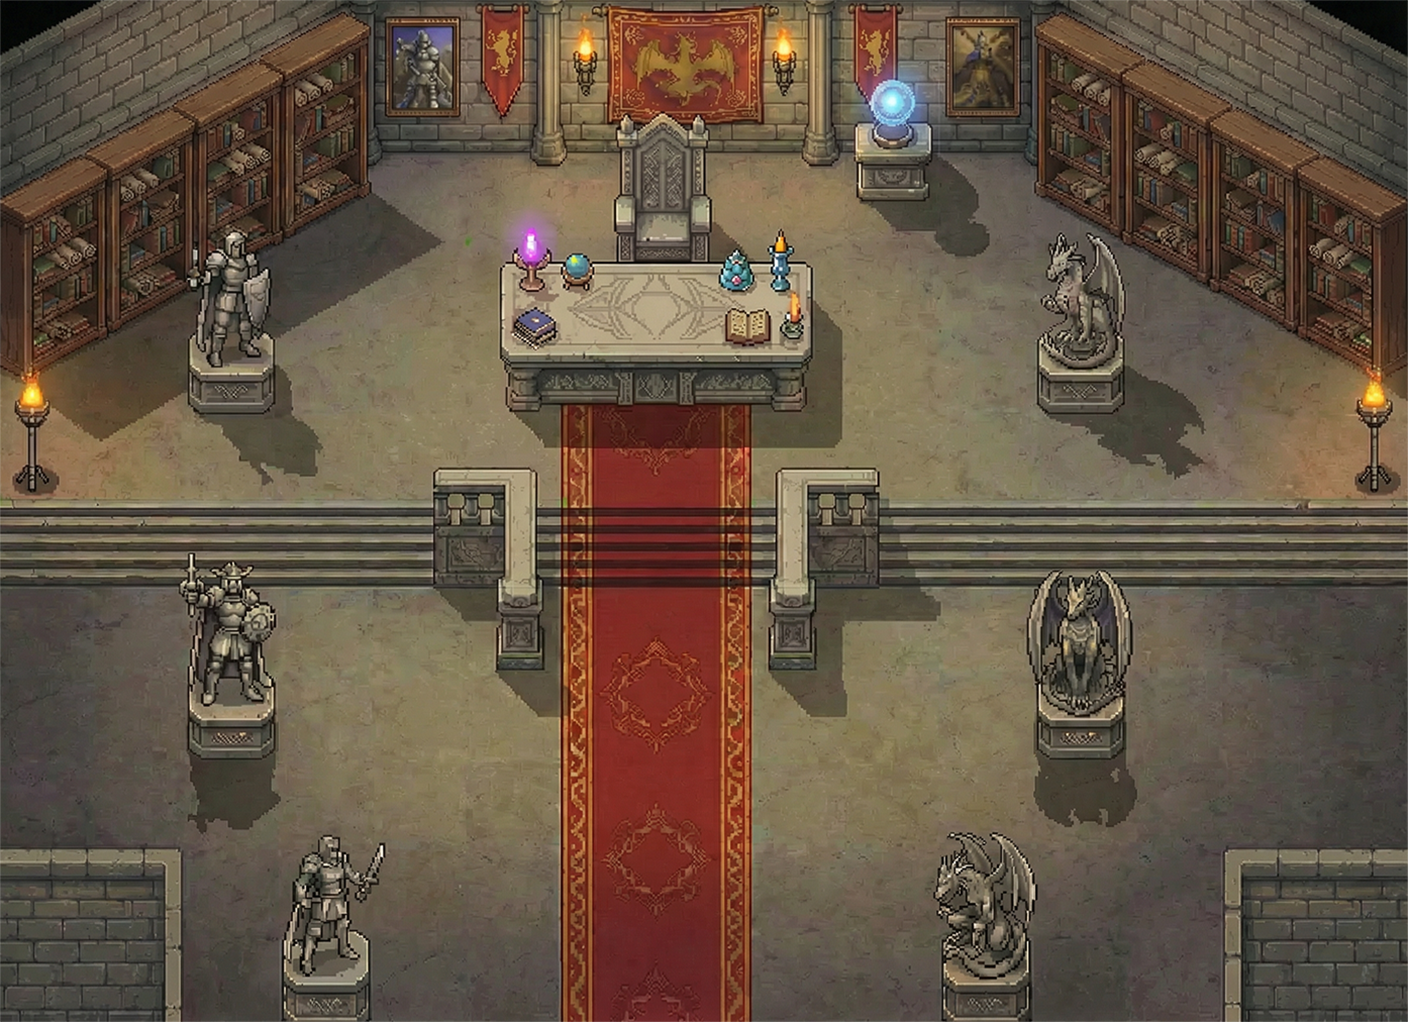
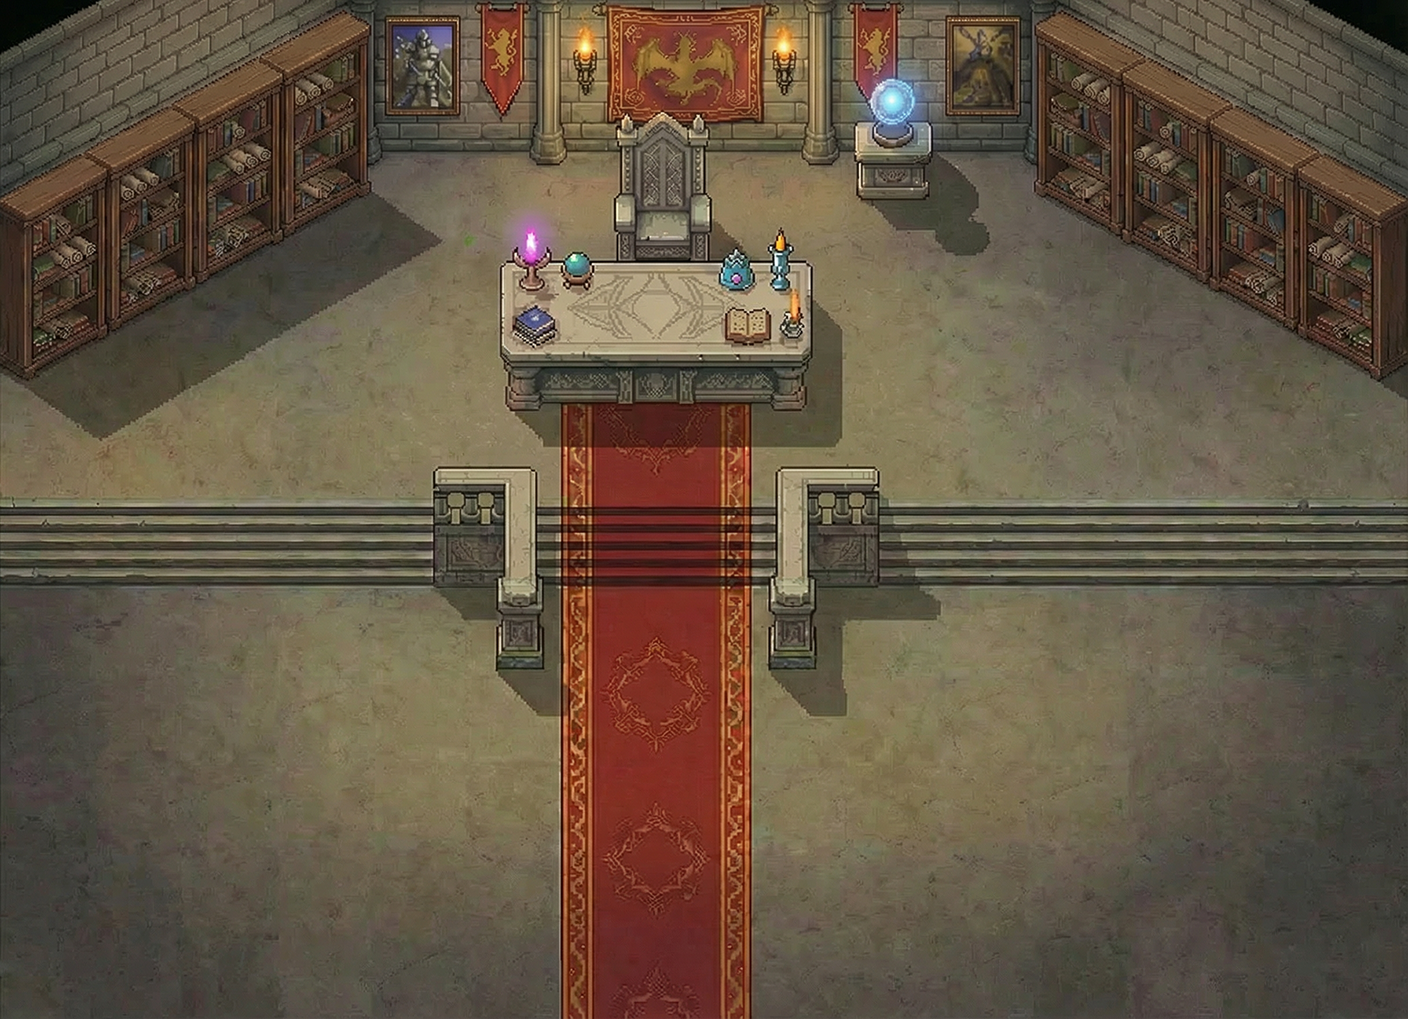
实装了前景系统

diff --git a/src/core/anim/UnitAnimSprite.ts b/src/core/anim/UnitAnimSprite.ts
@@ -4,6 +4,7 @@ import type { Unit } from "../units/Unit";
 import { spriteTile, tileSize, zIndexSetting } from "../envSetting";
 import type { BuffInterface } from "../buff/BuffInterface";
 import { getStatusEffectsIconUrl } from "@/utils/utils";
+
 const lineIconLimit = 4;
 export class UnitAnimSpirite extends Container {
   // 单位的朝向，单位为弧度，0 表示向右
@@ -44,22 +45,6 @@ export class UnitAnimSpirite extends Container {
   public statusIcons: { [key: string]: PIXI.Container } = {};
   private isLeftClick = false;
   private callback: any;
-  public containsPoint = (point: PIXI.Point): boolean => {
-    if (this.isLeftClick) {
-      return false;
-    }
-    return false;
-  };
-  public spriteContainsPoint = (
-    sprite: PIXI.Sprite,
-    point: PIXI.Point
-  ): boolean => {
-    console.log("Checking containsPoint for sprite:", sprite, "with point:", point);
-    if (this.isLeftClick) {
-      console.log("containsPoint ignored due to left click",sprite);
-      return false;
-    } else return PIXI.Sprite.prototype.containsPoint.call(sprite, point);
-  };
 
   public get animationCallback(): any {
     return this.callback;
@@ -68,16 +53,7 @@ export class UnitAnimSpirite extends Container {
   public set animationCallback(cb: any) {
     this.callback = cb;
   }
-  setSpriteContainsPoint(container: PIXI.Container) {
-    container.children.forEach((child) => {
-      if (child instanceof PIXI.AnimatedSprite) {
-        child.containsPoint = (point: PIXI.Point) =>
-          this.spriteContainsPoint(child, point);
-      } else {
-        this.setSpriteContainsPoint(child as PIXI.Container);
-      }
-    });
-  }
+
   constructor(unit: Unit | undefined) {
     super();
 
@@ -85,7 +61,6 @@ export class UnitAnimSpirite extends Container {
     // 可以在这里初始化你的自定义属性
     this.onRender = () => {
       this.update(this.callback);
-      this.setSpriteContainsPoint(this);
     };
 
     // this.eventMode = "none";
@@ -177,8 +152,7 @@ export class UnitAnimSpirite extends Container {
           0 -
           (this.anims[this._state].height - (this.visisualSize.height ?? 0)) /
             2;
-        this.anims[this._state].zIndex = this.y;
-        this.zIndex = this.y;
+
         if (this.owner?.direction != null) {
           this.direction = this.owner.direction;
           this.anims[this._state].textures =
@@ -187,9 +161,16 @@ export class UnitAnimSpirite extends Container {
             ];
           console.log("切换动画状态转向: " + this._state + "_" + dirctionWASD);
         }
+
         this._animationState = this._state;
         this.anims[this._state].play();
       }
+    if (this.anims[this._state]) {
+      this.anims[this._state].zIndex = this.y;
+      this.zIndex = this.y;
+      console.log(`更新z-index  : ${this.zIndex}`);
+    }
+
     // 如果当前状态是行走状态，则渲染行走动画
     if (this._state === "walk") {
       if (this.anims["walk"]) {

diff --git a/src/core/anim/FrontObjAnimSprite.ts b/src/core/anim/FrontObjAnimSprite.ts
@@ -1,0 +1,65 @@
+import { getMapAssetFile, getMapFrontObjIMG } from "@/utils/utils";
+import { FrontObj } from "./../units/FrontObj";
+import { Sprite } from "pixi.js";
+import * as PIXI from "pixi.js";
+import { FrontObjSystem } from "../system/FrontObjSystem";
+export class FrontObjAnimSprite extends Sprite {
+  // 宝箱的状态，true 表示打开，false 表示关闭
+  private _isOpen: boolean = false;
+
+  public owner: FrontObj;
+
+  // 添加提示容器和文本
+
+  private callback: any;
+  public get animationCallback(): any {
+    return this.callback;
+  }
+
+  public set animationCallback(cb: any) {
+    this.callback = cb;
+  }
+
+  constructor(frontObj: FrontObj) {
+    super();
+    this.owner = frontObj;
+
+    // 创建提示文本
+    
+  }
+}
+
+/**
+ * 从前景对象创建前景动画精灵
+ */
+export const createFrontObjAnimSpriteFromFront = async (
+  frontObj: FrontObj,
+  mapName: string
+) => {
+  // 使用 box1.png 图集（根据 A.tmj 中的配置）
+  console.log("Loading chest textures...");
+  const boxTextureUrl = getMapFrontObjIMG(mapName, "frontObj", "png");
+  
+  const boxTexture = await PIXI.Assets.load(boxTextureUrl);
+  // box1.png 是 4 帧的图集，每帧 64x64，间距 10
+  // 第 0 帧是关闭状态，第 3 帧是打开状态
+  console.log("Loaded frontObj :", frontObj);
+  const frontObjInfo=FrontObjSystem.getInstance().getFrontObjInfo(mapName, frontObj.frontObjName);
+  console.log("Retrieved front object info:", frontObjInfo);
+  if (!frontObjInfo) {
+    console.error(`未找到前景对象信息: ${frontObj.frontObjName} 在地图 ${mapName}`);
+    return null;
+  }
+  const texture = new PIXI.Texture({
+    source: boxTexture.source,
+    frame: new PIXI.Rectangle(frontObjInfo.x, frontObjInfo.y, frontObjInfo.width, frontObjInfo.height),
+  });
+  const frontObjSprite = new Sprite(texture);
+ 
+  frontObjSprite.anchor.set(0, 0); // 设置锚点为左上角，与 unit 一致
+  frontObjSprite.x = frontObj.x;
+  frontObjSprite.y = frontObj.y ; // 
+  frontObjSprite.zIndex=frontObj.y+(frontObjInfo.height-frontObjInfo.occlusionHeight)
+  frontObjSprite.eventMode='none'
+  return frontObjSprite;
+};

diff --git a/src/core/service/2dcanvas/MapCanvasService.ts b/src/core/service/2dcanvas/MapCanvasService.ts
@@ -1,3 +1,4 @@
+import { FrontObjSystem } from './../../system/FrontObjSystem';
 import { golbalSetting } from "@/core/golbalSetting";
 import { useCharacterStore } from "@/stores/characterStore";
 import * as PIXI from "pixi.js";
@@ -14,6 +15,7 @@ import {
 import { AnimMetaJson } from "@/core/anim/AnimMetaJson";
 import { UnitAnimSpirite } from "@/core/anim/UnitAnimSprite";
 import type { Creature } from "@/core/units/Creature";
+import { createFrontObjAnimSpriteFromFront } from "@/core/anim/FrontObjAnimSprite";
 
 export class MapCanvasService {
   constructor() {}
@@ -144,6 +146,38 @@ export class MapCanvasService {
       await Promise.all(chestPromises);
     }
     console.log("创建宝箱:", chests);
+
+     // 创建前景
+     console.log("加载前景物件信息...", mapPassiable.name);
+    await FrontObjSystem.getInstance().loadAsset(mapPassiable.name);
+    const frontObjs  = mapPassiable.frontObjs;
+    if (frontObjs && frontObjs.length > 0) {
+      const frontObjPromises: Promise<any>[] = [];
+      frontObjs.forEach((obj: any) => {
+        const promise = createFrontObjAnimSpriteFromFront(obj,mapPassiable.name).then(
+          (objSprite) => {
+            if (!objSprite) {
+              console.error(`Failed to create sprite for front object: ${obj.name}`);
+              return;
+            }
+            objSprite.visible = true; // 默认不可见，由战争迷雾系统控制
+            if (container) container.addChild(objSprite);
+            if (rlayers.spriteLayer) rlayers.spriteLayer.attach(objSprite);
+            console.log(
+              "Created front object sprite:",
+              obj.id,
+              "at",
+              obj.x,
+              obj.y
+            );
+          }
+        );
+        frontObjPromises.push(promise);
+      });
+      await Promise.all(frontObjPromises);
+    }
+
+    // console.log("创建前景物件:", frontObjs);
     // 创建单位
     let createEndPromise: Promise<any>[] = [];
     units.forEach((unit: Unit) => {

diff --git a/src/core/system/FrontObjSystem.ts b/src/core/system/FrontObjSystem.ts
@@ -1,0 +1,51 @@
+import { getFrontObjInfoJsonFile } from "@/utils/utils";
+
+interface FrontObjInfo {
+  x: number;
+  y: number;
+  name: string;
+  occlusionHeight: number;
+  width: number;
+  height: number;
+}
+interface FrontObjAssetInfo {
+  name: string;
+  fronts: FrontObjInfo[];
+}
+export class FrontObjSystem {
+  private static instance: FrontObjSystem;
+  public static getInstance = () => {
+    if (!FrontObjSystem.instance) {
+      FrontObjSystem.instance = new FrontObjSystem();
+    }
+    return FrontObjSystem.instance;
+  };
+  public frontAssets: Map<string, FrontObjAssetInfo> = new Map();
+  loadAsset =  (mapName: string): Promise<any> => {
+
+    const promisee= new Promise((resolve, reject) => {
+      getFrontObjInfoJsonFile(mapName, "frontObj").then(
+        (frontObjAssetInfo: any) => {
+          console.log("Loaded front object asset info:", frontObjAssetInfo);
+          this.frontAssets.set(mapName, {name:mapName,fronts:frontObjAssetInfo});
+          resolve(frontObjAssetInfo);
+        }
+      ).catch((error) => {
+        console.error("Failed to load front object asset info:", error);
+        reject(error);
+      });
+    });
+    return promisee;
+  };
+  getFrontObjInfo(mapName: string, objName: string): FrontObjInfo | null {
+    const assetInfo = this.frontAssets.get(mapName);
+    console.log(`Getting front object info for map: ${mapName}, object: ${objName}`,assetInfo);
+    if (assetInfo) {
+      const frontObjInfo = assetInfo.fronts.find((obj) => obj.name === objName);
+      console.log(`Found front object info:`, frontObjInfo);
+      return frontObjInfo || null;
+    }
+    return null;
+  }
+  constructor() {}
+}

diff --git a/src/core/system/DramaSystem.ts b/src/core/system/DramaSystem.ts
@@ -11,6 +11,7 @@ import { FogSystem } from "./NewFogSystem";
 import { CharacterOutCombatController } from "../controller/CharacterOutCombatController";
 import { CharacterController } from "../controller/CharacterController";
 import { lordRoom } from "@/drama/lord-room";
+import { createFrontObjFromObj } from "../units/FrontObj";
 interface DialogOption {
   text: string;
   value: any;
@@ -97,7 +98,7 @@ export class DramaSystem {
     const mapTexture = await PIXI.Assets.load(url);
     const mapPassiablePOJO = await getMapTmjFile("map", mapName, "tmj");
     const { TiledMap } = await import("@/core/MapClass");
-    const mapPassiable = new TiledMap(mapPassiablePOJO, mapTexture);
+    const mapPassiable = new TiledMap(mapName,mapPassiablePOJO, mapTexture);
     return mapPassiable;
   }
 
@@ -181,6 +182,14 @@ export class DramaSystem {
     //从units中去掉隐藏单位，先不添加到地图中，等需要的时候再添加
 
     console.log("Loaded boxOBJ from map:", boxOBJ);
+    //创建前景对象
+    let frontObjs = mapPassiable.frontObjs;
+    frontObjs=frontObjs.map((obj:any)=>{
+      return createFrontObjFromObj(obj);
+    })
+
+
+    //创建宝箱
     const chests = await Promise.all(
       boxOBJ.map((obj) => createChestFromBoxObj(obj))
     );
@@ -216,6 +225,7 @@ export class DramaSystem {
     await new Promise((resolve) => setTimeout(resolve, 1000)); // 确保所有异步操作完成
     mapPassiable.sprites = units;
     mapPassiable.chests = chests;
+    mapPassiable.frontObjs = frontObjs;
     // 处理宝箱
     console.log("Loaded chests from map:", mapPassiable.chests);
 

diff --git a/src/core/MapClass.ts b/src/core/MapClass.ts
@@ -70,6 +70,7 @@ export interface TiledMapTileset {
 
 // 主地图类
 export class TiledMap {
+  name:string;
   compressionlevel: number;
   height: number;
   infinite: boolean;
@@ -97,10 +98,12 @@ export class TiledMap {
   }> = [];
   textures?: PIXI.Sprite;
   sprites: any[] = [];
+  frontObjs: any[] = [];
   hiddenUnits: any[] = [];
   doors: Door[] = [];
   chests: Chest[] = [];
-  constructor(data: any, textures: any) {
+  constructor(name:string,data: any, textures: any) {
+    this.name=name;
     this.compressionlevel = data.compressionlevel;
     this.height = data.height;
     this.infinite = data.infinite;
@@ -128,7 +131,13 @@ export class TiledMap {
     if (spriteLayer && spriteLayer.objects) {
       this.sprites = spriteLayer.objects;
     }
-
+    //初始化前景物件
+    const  frontObjLayer = this.layers.find(
+      (l) => l.type === "objectgroup" && l.name === "frontObj",
+    );
+    if (frontObjLayer && frontObjLayer.objects) {
+      this.frontObjs = frontObjLayer.objects;
+    }
     // 初始化宝箱
     const boxLayer = this.layers.find(
       (l) => l.type === "objectgroup" && l.name === "box",

diff --git a/src/utils/utils.ts b/src/utils/utils.ts
@@ -11,6 +11,9 @@ export const getDoorSvg=(state:string)=>{
 export const getMapAssetFile = (mapName: string,mapType: string='png') => {
   return new URL(`../assets/map/${mapName}/${mapName}.${mapType}`, import.meta.url).href;
 };
+export const getMapFrontObjIMG = (mapName: string, objName: string, objType: string = 'png') => {
+  return new URL(`../assets/map/${mapName}/${objName}.${objType}`, import.meta.url).href;
+}
 export const getParticleFile = (particleName: string) => {
   return new URL(`../assets/partics/${particleName}.png`, import.meta.url).href;
 };
@@ -113,6 +116,13 @@ export const getAnimActionSpriteJsonFile = (
   console.log(jsonUrl);
   return fetchJsonFile(jsonUrl);
 };
+export const getFrontObjInfoJsonFile = (mapName: string,frontInfoName:string) => {
+ const jsonUrl = new URL(
+    `../assets/map/${mapName}/${frontInfoName}.json`,
+    import.meta.url
+  ).href;
+  return fetchJsonFile(jsonUrl);
+}
 export const getJsonFile = (
   dirName: string,
   fileName: string,

diff --git a/src/core/units/FrontObj.ts b/src/core/units/FrontObj.ts
@@ -1,0 +1,40 @@
+import * as PIXI from "pixi.js";
+import { golbalSetting } from "../golbalSetting";
+
+export class FrontObj {
+  
+  public frontObjSprite: PIXI.Sprite | null;
+  public id: number;
+  public x: number;
+  public y: number;
+  public frontObjName: string;
+  constructor(id: number, x: number, y: number, frontObjName: string) {
+    this.id = id;
+    this.frontObjSprite = null;
+    this.x = x;
+    this.y = y;
+    this.frontObjName = frontObjName; 
+  
+
+    // this.doorSprite.on('pointerdown', this.toggle.bind(this));
+  }
+
+  
+}
+export function createFrontObjFromObj(obj: any): FrontObj {
+  const x = obj.x;
+  const y = obj.y;
+  const frontObjName = obj.name;
+ 
+  const frontObj = new FrontObj(obj.id, x, y, frontObjName );
+
+    const frontObjNameProp = obj.properties?.find(
+            (p: any) => p.name === "frontObjName",
+          );
+    if (frontObjNameProp) {
+      frontObj.frontObjName = frontObjNameProp.value;
+    }
+
+  
+  return frontObj;
+}
